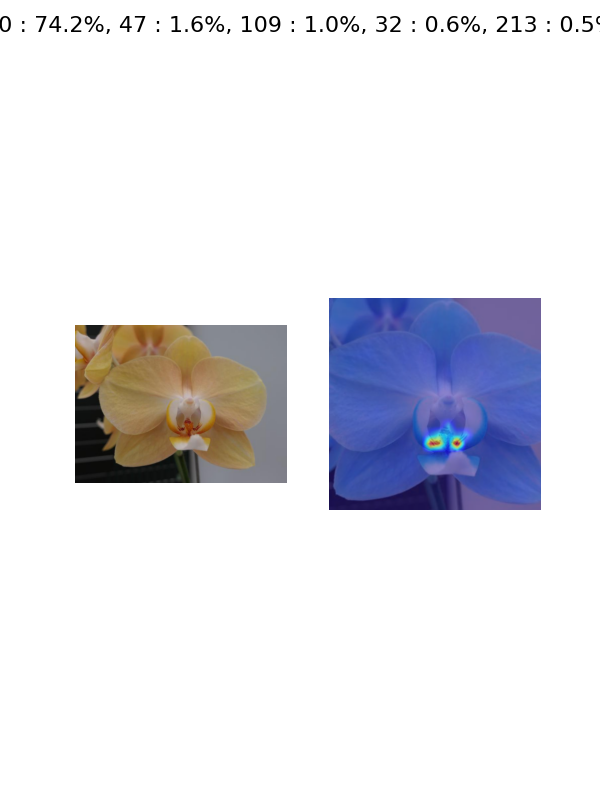
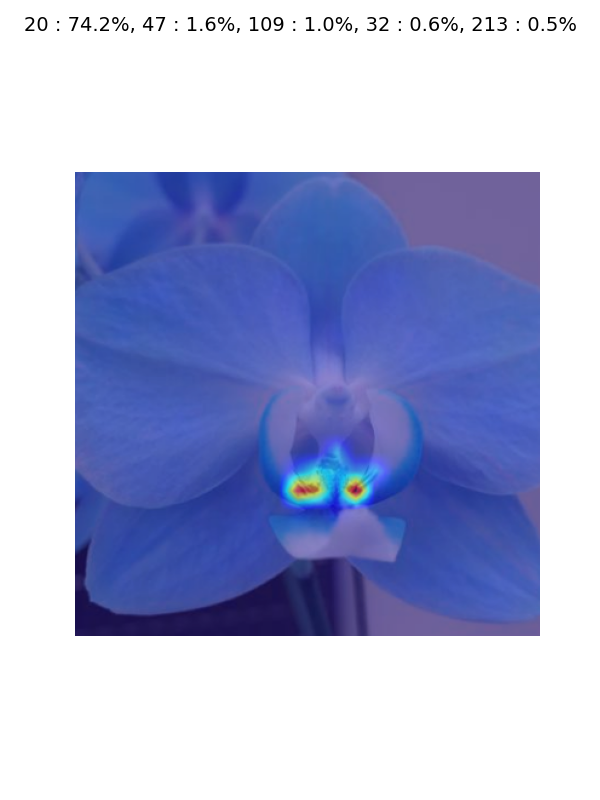
added explaination of image

diff --git a/transformer_explainability/utils.py b/transformer_explainability/utils.py
@@ -81,22 +81,22 @@ def plot_attention(
     # laod image from image_dir
     image = Image.open(image_dir)
     transform_image = transform(image)
-    fig, axes = plt.subplots(1, 2, figsize=(6, 8))
+    fig, ax = plt.subplots(figsize=(6, 8))
 
-    # original image
-    axes[0].imshow(image)
-    axes[0].axis("off")
+    # # original image
+    # axes[0].imshow(image)
+    # axes[0].axis("off")
 
     output = model(transform_image.unsqueeze(0).to(device))
     class_prob = print_top_classes(output, class_mapping)
-    fig.suptitle(class_prob, fontsize=16)
+    fig.suptitle(class_prob, fontsize=14)
 
     # predicted class
     attn_mapping = generate_visualization(
         transform_image, attribution_generator, image_size, class_index=class_index
     )
-    axes[1].imshow(attn_mapping)
-    axes[1].axis("off")
+    ax.imshow(attn_mapping)
+    ax.axis("off")
 
     if save_dir:
         plt.savefig(f"{save_dir}.png")
